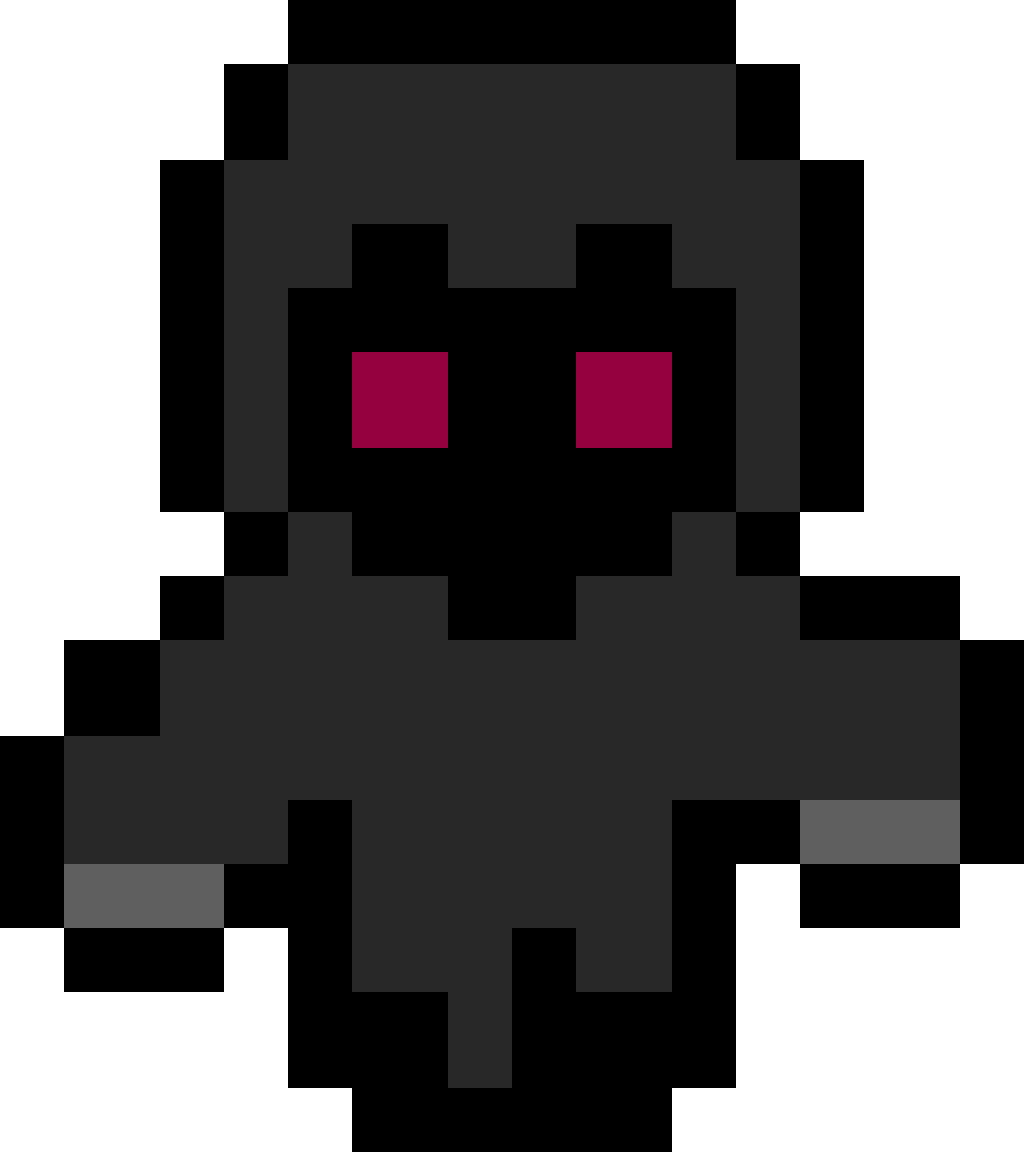
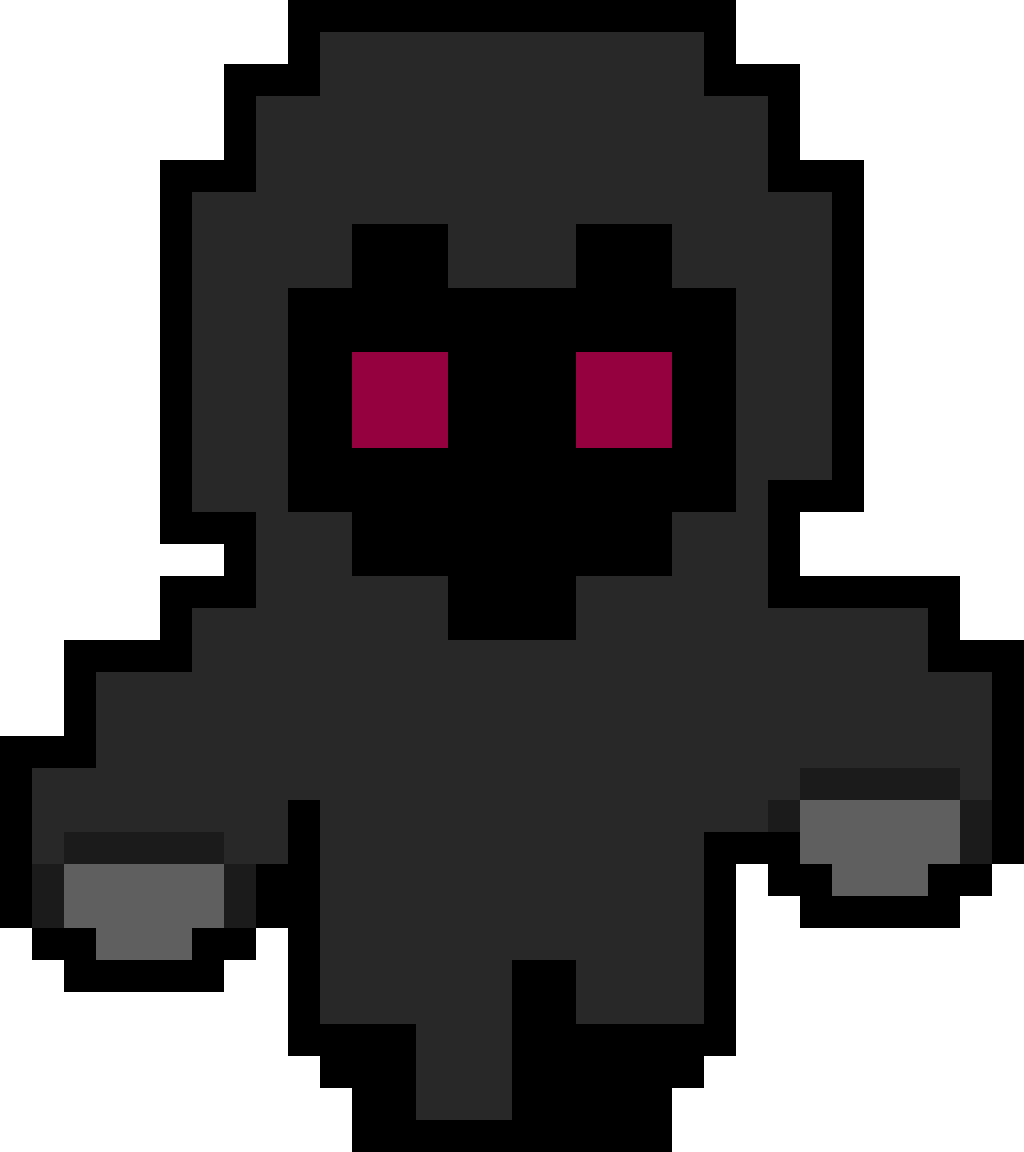
Zamenio panj sa policom i poradio na sprajtovima

diff --git a/tile.cpp b/tile.cpp
@@ -24,8 +24,8 @@ Tile::Tile(float x, float y, int type)
             this->coords.h = 250;
             break;
         case TILE_TREE_FALL:
-            this->coords.w = 160;
-            this->coords.h = 100;
+            this->coords.w = 90;
+            this->coords.h = 140;
             break;
         /*case TILE_LEAF:
             this->coords.w = 140;
@@ -59,9 +59,9 @@ void Tile::loadTexture(void)
             this->texture = loadModel("data/stocic.png");
             break;
         case TILE_TREE_FALL:
-            this->texture = loadModel("data/panj.png");
+            this->texture = loadModel("data/stvari/polica2.png");
             break;
-        /*case TILE_LEAF:
+        /*ocase TILE_LEAF:
             this->texture = loadModel("data/list.png");
             break; */
     }

diff --git a/map.cpp b/map.cpp
@@ -27,7 +27,7 @@ Map::Map(float width, float height, float sWidth, float sHeight)
     /*this->tile.push_back(new Tile(600, 300, TILE_LEAF));
     for(i = 0; i <= width - 100; i += 100)*/
     {
-    this->tile.push_back(new Tile(600, 300, TILE_TREE_FALL));
+    this->tile.push_back(new Tile(845, 405, TILE_TREE_FALL));
     }
     for(i = 0; i <= width - 100; i += 100)
     {
@@ -60,11 +60,8 @@ void Map::loadTexture(void)
 {
     int i;
     player->loadTexture("pig/pig");
-<<<<<<< HEAD
     player2->loadTexture("grim/grim");
-=======
     player2->loadTexture("creep/creep");
->>>>>>> de799e4b6e1a90485e8cbe9a6a473393f883c2db
     for(i = 0; i < this->tile.size(); i++)
         this->tile[i]->loadTexture();
     for(i = 0; i < this->enemy.size(); i++)

diff --git a/game.cpp b/game.cpp
@@ -10,10 +10,10 @@
 
 Game::Game(void)
 {
-    this->width = 860;
-    this->height = 630;
-    //this->width = 1200;
-    //this->height = 900;
+    //this->width = 860;
+    //this->height = 630;
+    this->width = 1200;
+    this->height = 900;
     this->caption = "Zhu the Pig";
     this->isRunning = true;
     this->fps = 10;
